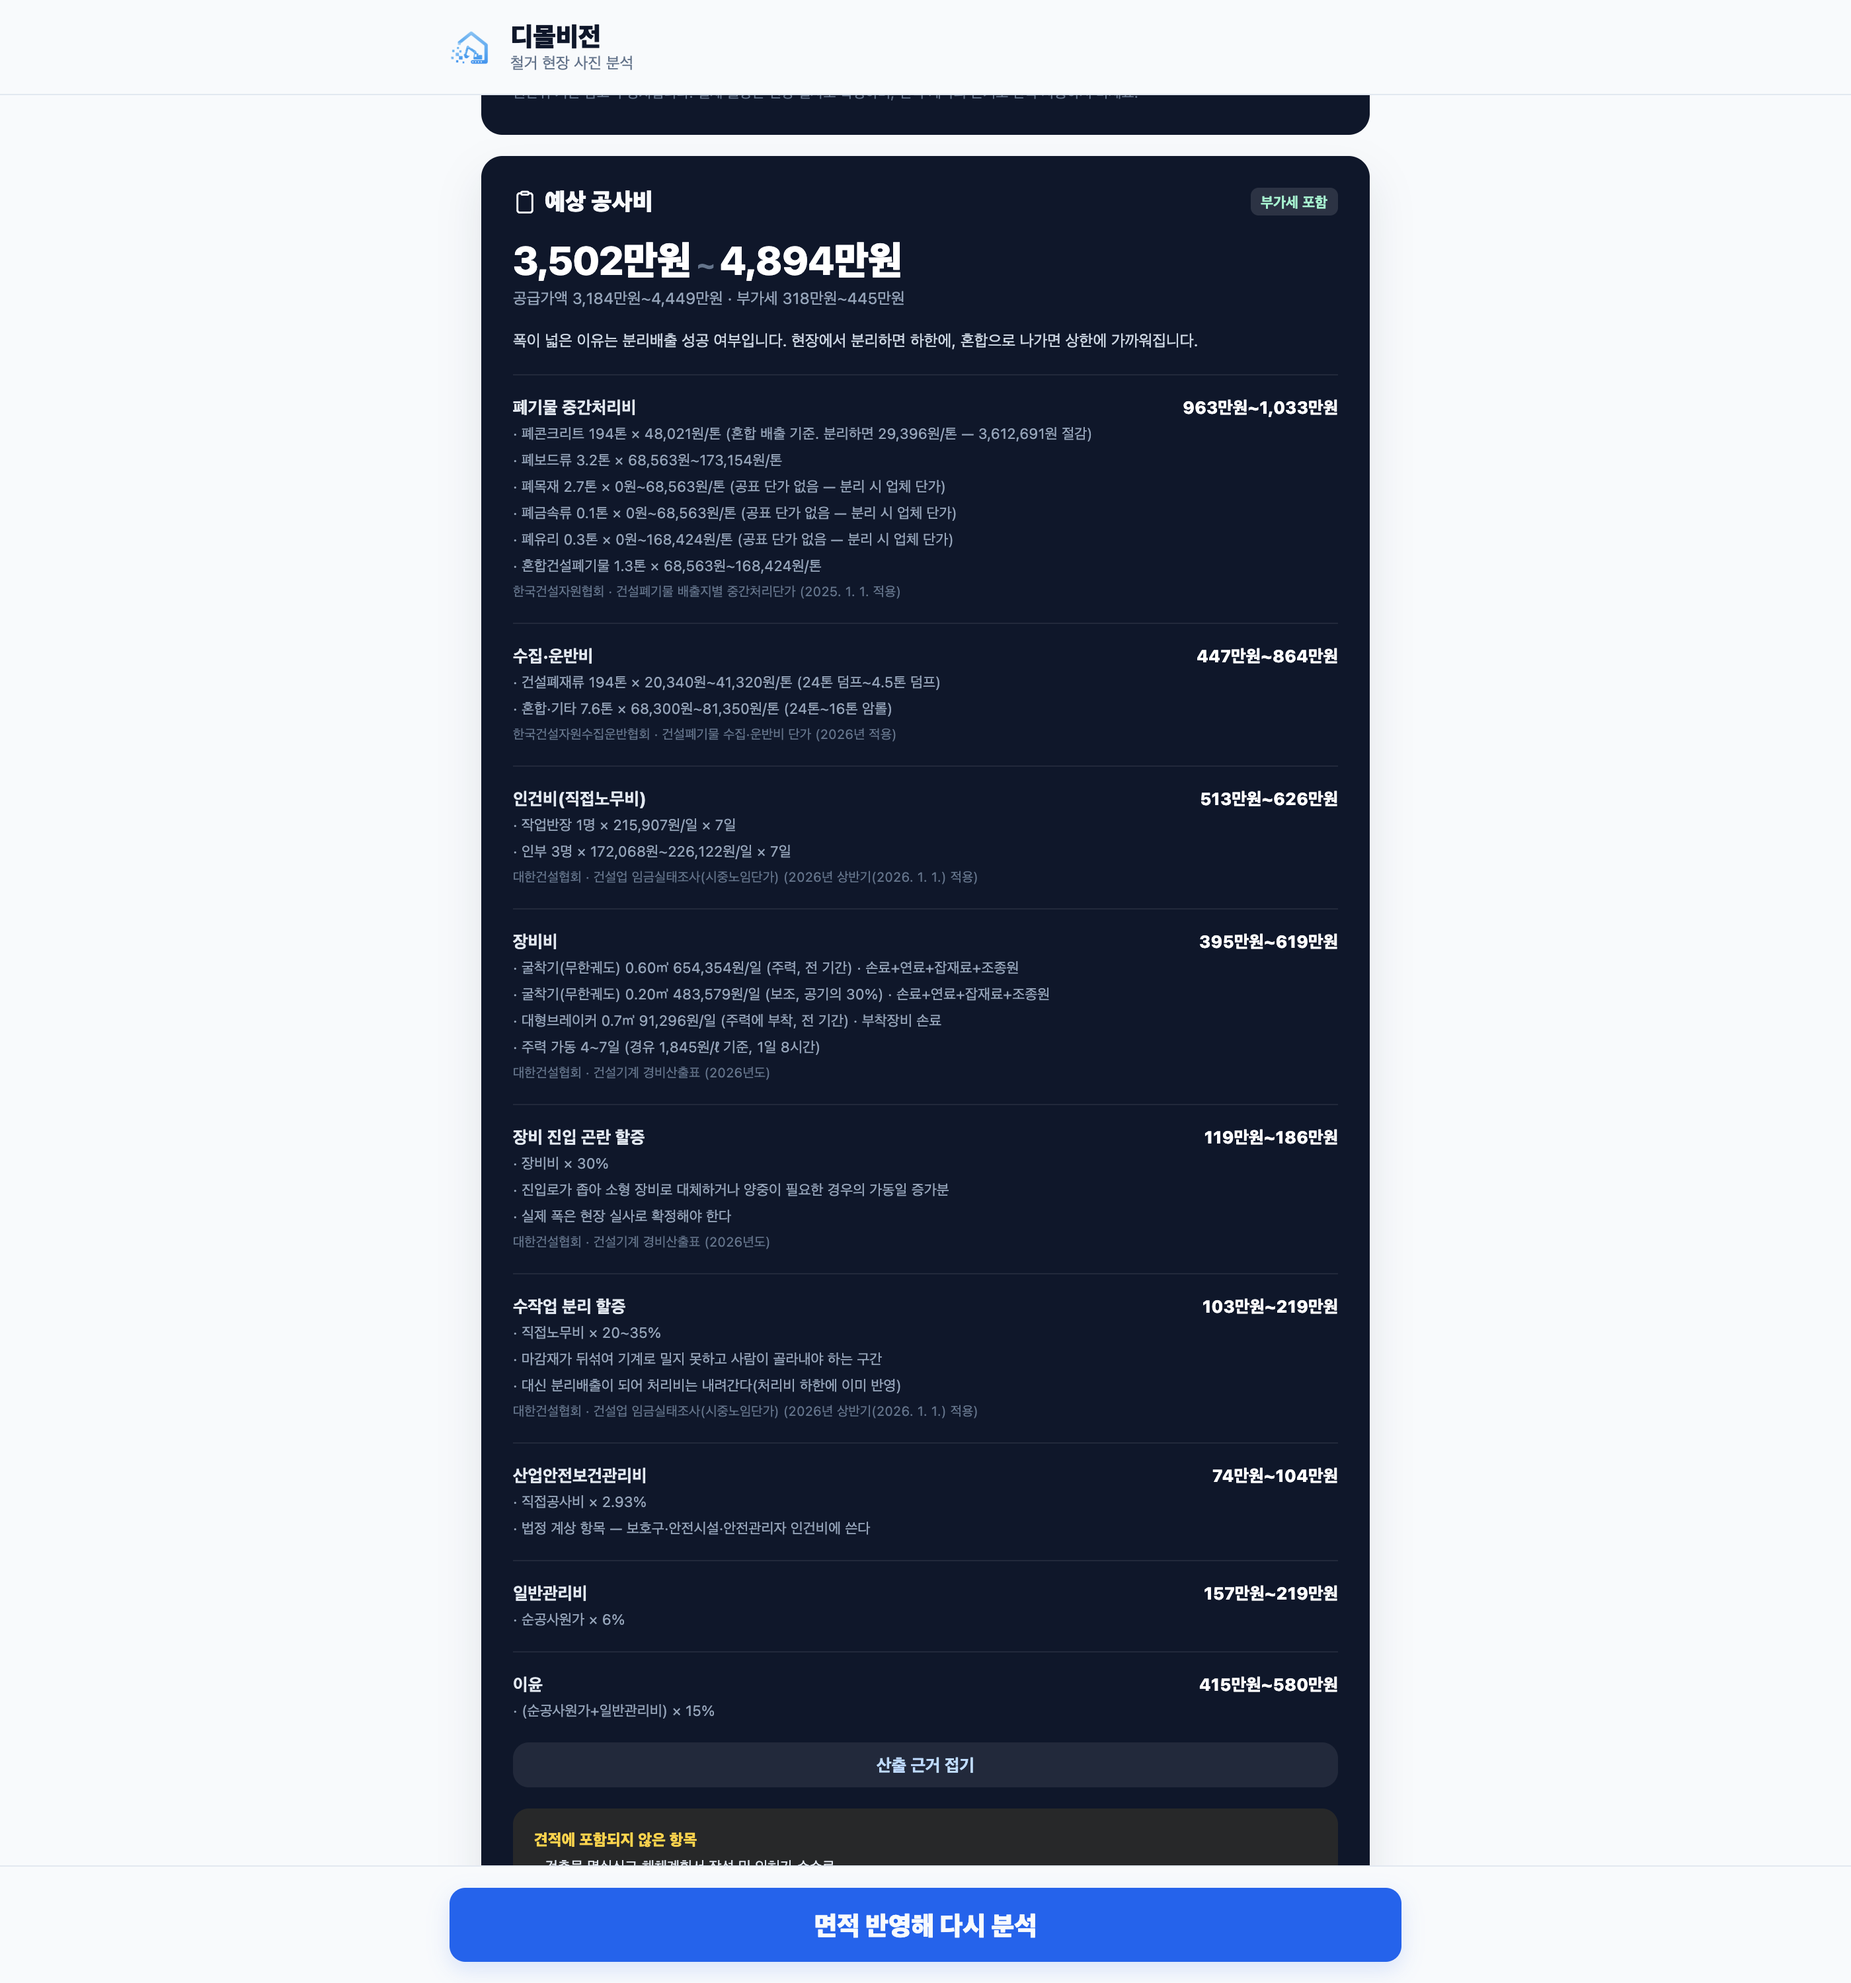
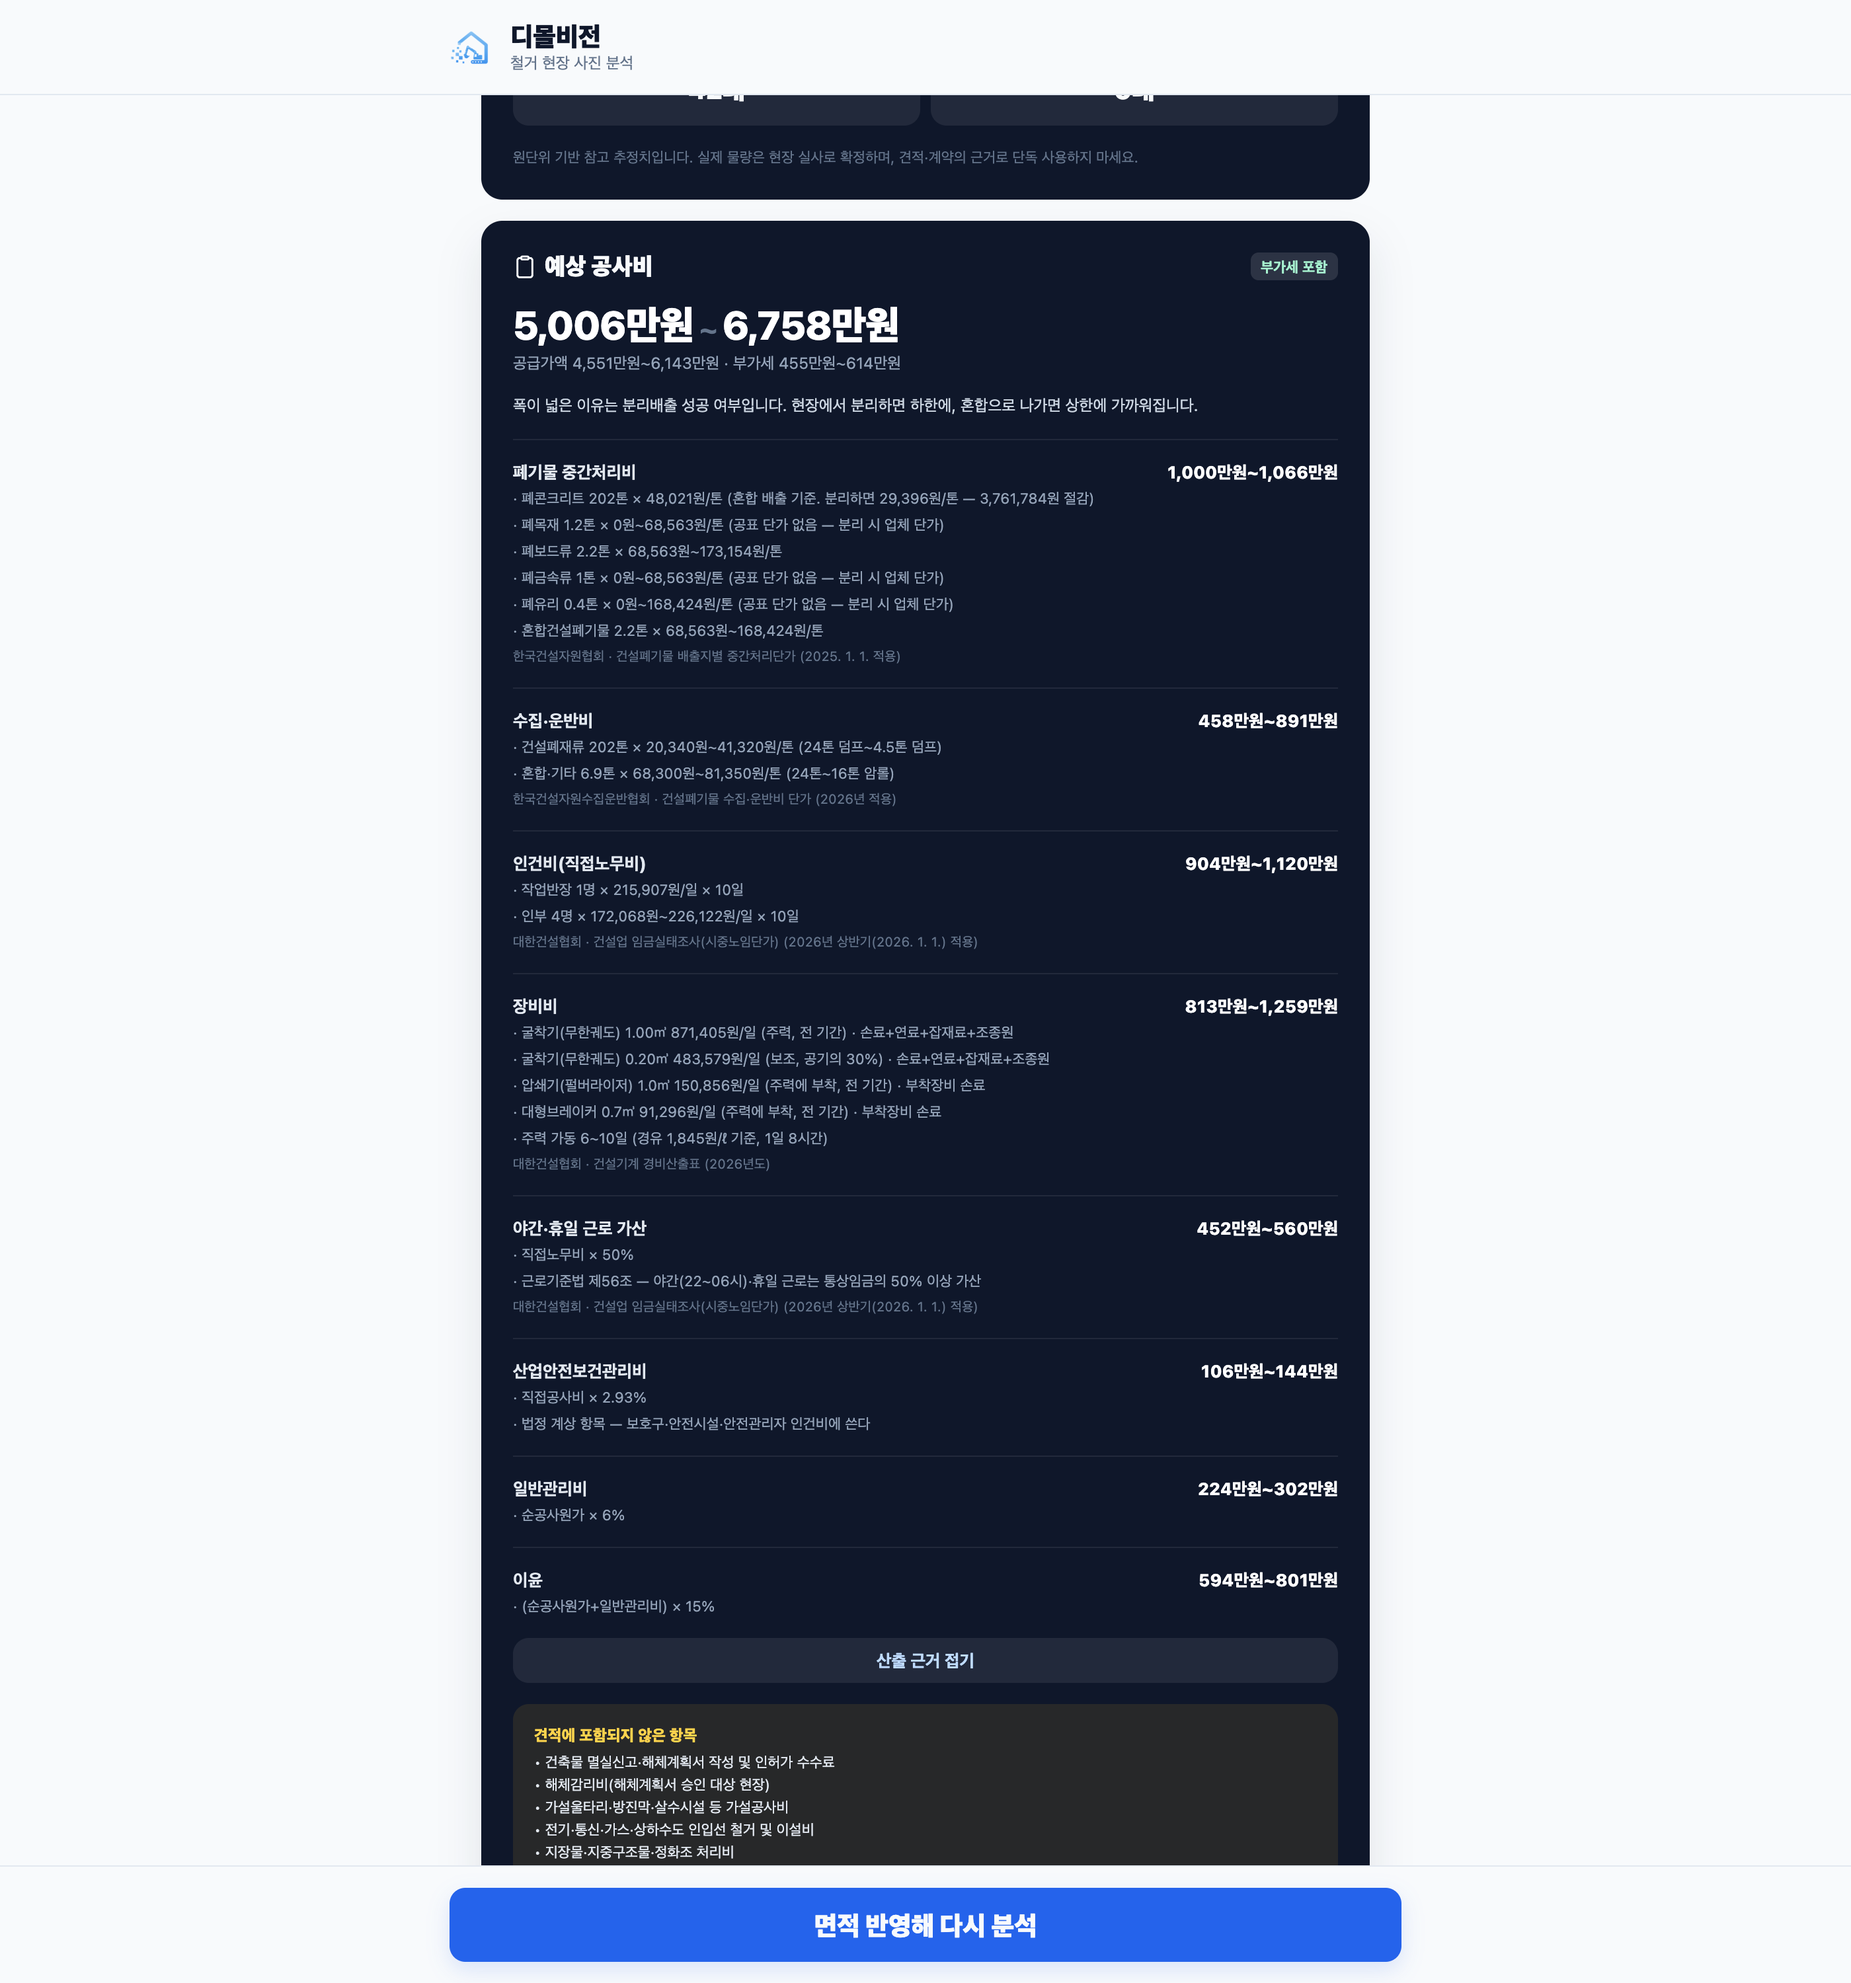
fix: 자동 움직임을 더 느리고 좁게 — 처음 몇 초가 고른 각도를 지키도록
열어 본 사람이 보는 건 처음 몇 초다. ±20°를 6ms 마다 움직이니 2초면 이미
15° 를 벗어나 벽을 비스듬히 보게 됐다. ±11° 를 네 배 느리게.

diff --git a/apps/app/public/recon.html b/apps/app/public/recon.html
@@ -1431,8 +1431,10 @@ let CAPTURE_QUALITY = 0.58;
           // 이유였다. 처음 각도 둘레 ±20° 안에서만 천천히 오간다. 입체감은
           // 그대로 주면서 "좋은 각도" 를 잃지 않는다.
           if (!dragging) {
-            swing += 0.006;
-            ry = ryBase + Math.sin(swing) * 0.35;
+            // 느리고 좁게. 처음 몇 초는 고른 각도를 거의 그대로 유지해야 한다 —
+            // 열어 본 사람이 보는 건 그 몇 초고, 캡처도 거기서 찍힌다.
+            swing += 0.0016;
+            ry = ryBase + Math.sin(swing) * 0.2;
             apply();
           }
           renderer.render(scene, camera);
